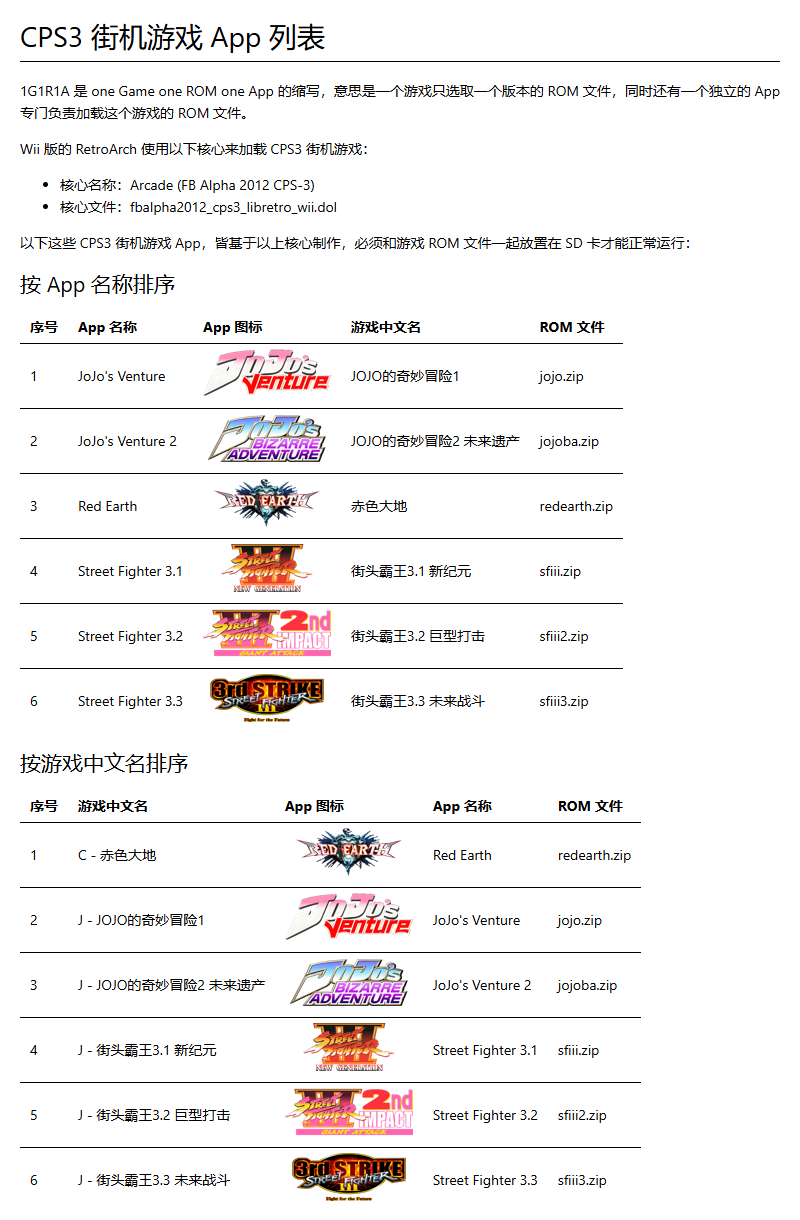
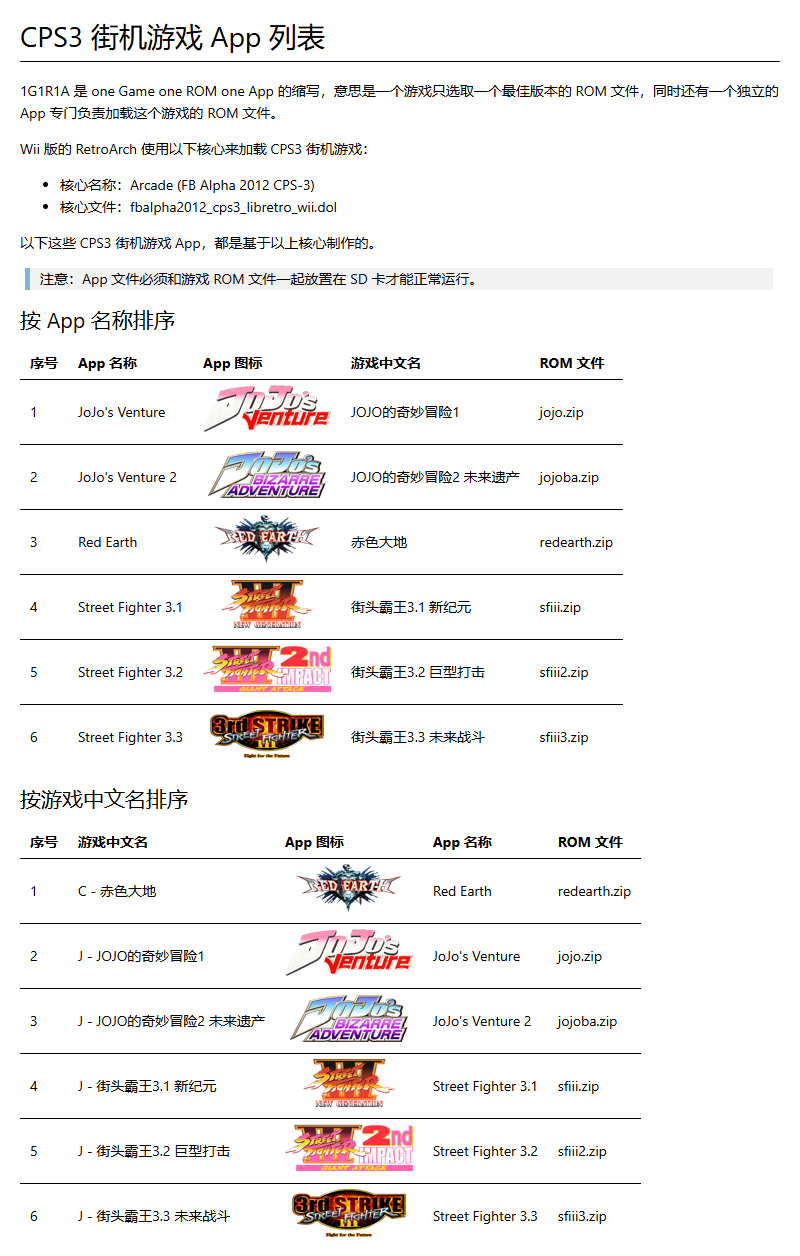
update CPS3 Apps (RA核心)

diff --git a/CPS3 Apps (RA核心1.22.2版).md b/CPS3 Apps (RA核心1.22.2版).md
@@ -1,12 +1,14 @@
 # CPS3 街机游戏 App 列表
 
-1G1R1A 是 one Game one ROM one App 的缩写，意思是一个游戏只选取一个版本的 ROM 文件，同时还有一个独立的 App 专门负责加载这个游戏的 ROM 文件。
+1G1R1A 是 one Game one ROM one App 的缩写，意思是一个游戏只选取一个最佳版本的 ROM 文件，同时还有一个独立的 App 专门负责加载这个游戏的 ROM 文件。
 
 Wii 版的 RetroArch 使用以下核心来加载 CPS3 街机游戏：
 - 核心名称：Arcade (FB Alpha 2012 CPS-3)
 - 核心文件：fbalpha2012_cps3_libretro_wii.dol
 
-以下这些 CPS3 街机游戏 App，皆基于以上核心制作，必须和游戏 ROM 文件一起放置在 SD 卡才能正常运行：
+以下这些 CPS3 街机游戏 App，都是基于以上核心制作的。
+
+> 注意：App 文件必须和游戏 ROM 文件一起放置在 SD 卡才能正常运行。
 
 ## 按 App 名称排序
 
